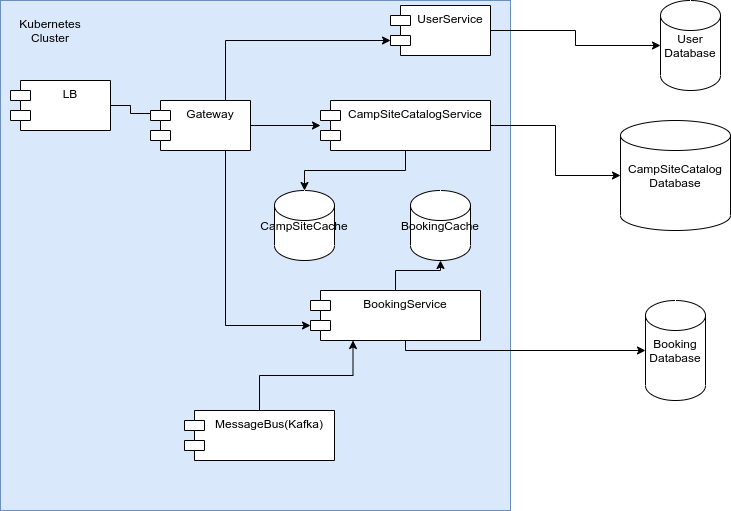
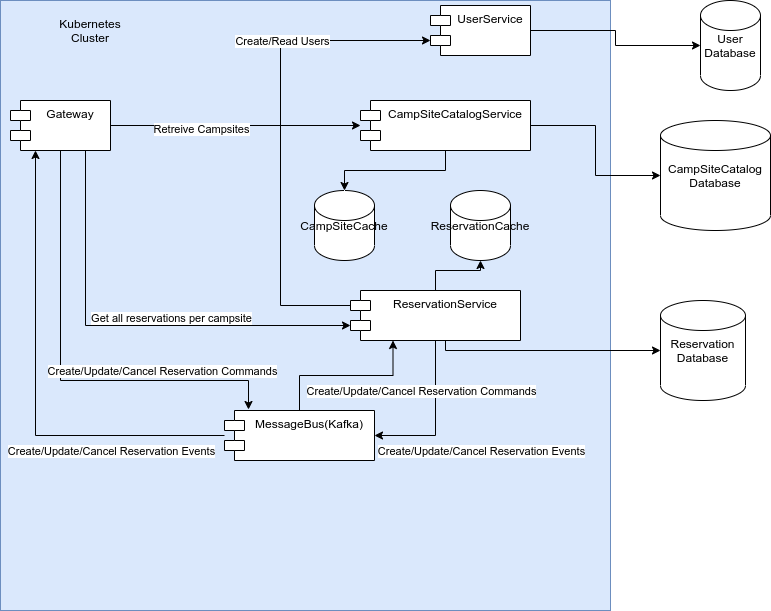
Documentation

diff --git a/README.md b/README.md
@@ -30,12 +30,131 @@ date(s). Demonstrate with appropriate test cases that the system can gracefully 
 7. There are no restrictions on how reservations are stored as as long as system constraints are not violated.
 
 # System Design
-
+This system has been designed choosing high availability (from CAP theorem) using eventual consistency 
+to scale all distributed operations but using some concepts to help consistency as well specially at the moment to
+create/update/cancel reservations.
+## Domain Drive Design
+### Bounded Contexts:
+* Reservation
+* User 
+* Campsite Catalog  
 ## Component Diagram
-
+The following system design has been build following the reactive architecture guidelines
+having the reactive manifesto in mind.    
 ![Component Diagram](NewIslandBooking.png)
 
+The system is designed to run using a container orchestration system such as kubernetes 
+(please see k8s yaml deployment and configurations) to allow a cloud agnostic solution, where all load balancing 
+and service discovery will be managed by kubernetes (in the case no kubernetes we can deploy it on compute instances 
+as well on any cloud or on-premise using Netflix Eureka) 
 
+The technology stack :
+* **Spring Boot**
+* **Spring Reactive WebFlux**
+* **Spring Data with JPA/Hibernate** 
+(I could use Spring Data R2DBC https://spring.io/projects/spring-data-r2dbc 
+ but there's only support for a few databases, I assume portability could be an issue, 
+ but we can easily adapt it due to the usage of WebFlux and code decoupling)
+* **Spring Cache** 
+(for simplicity of execution I use the default cache provider, 
+but we can set up a distributed cache such as Redis if is need it)
+* **Spring Reactive Sockets** 
+to provide asynchronous response
+* **Apache Kafka as Message Bus** 
+to increase responsiveness, elasticity, resilience and message driven  
+also allow to have complete decoupling between microservices and 
+listening to reservations event we can create data pipeline to an 
+OLAP type database (AWS Redshift of Google Big Query)for analytical usages 
+## Class Diagram / Database Design
+Having in mind separation in state from reactive systems 
+all three microservices do not share database therefore each microservice 
+has a separate database I have chosen postgres because 
+the schema is clearly defined but we don need ACID capabilities 
+(since it uses kafka topics partitioning to solve concurrency booking issues) 
+that's the reason Cassandra could be a great choice too
+![Component Diagram](NewIslandBookingClass.png)
+
+## System resource costs calculations
+Assuming :
+* we have 1 million users daily
+* we have 1 million campsites
+
+a single reservation having 
+* id 36 bytes
+* id userId 36 bytes
+* campsite 36 bytes 
+* status 9 bytes max
+* arrivalDate Timestamp - (8 bytes, little endian	5 bytes + fractional-seconds storage, big endian)
+* departureDate Timestamp - (8 bytes, little endian	5 bytes + fractional-seconds storage, big endian)
+* createdOn Timestamp - (8 bytes, little endian	5 bytes + fractional-seconds storage, big endian)
+* updatedOn Timestamp - (8 bytes, little endian	5 bytes + fractional-seconds storage, big endian)
+
+total = (36*3)+9+(8*4) = 149 bytes
+having 1 million users daily creating on average 1 reservation -> 149 bytes * 1M = 0.1388 GB daily = 50 GB yearly 
+we might need use database partitioning if we want keep the records. 
+Additionally I have designed an on memory cache that will improve this database performance. 
+
+a single user having 
+* id 36 bytes
+* name 100 bytes
+* email 100 bytes
+* createdOn Timestamp - (8 bytes, little endian	5 bytes + fractional-seconds storage, big endian)
+* updatedOn Timestamp - (8 bytes, little endian	5 bytes + fractional-seconds storage, big endian)
+
+total = 36+(100*2)+(8*2) = 252 bytes -> 252 bytes * 1M = 0.23 GB daily = 85.7 GB yearly
+definitely I would recommend having database partitioning for this database.
+
+a single campsite having 
+* id 36 bytes
+* name 100 bytes
+* latitude Double (64 bits) = 8 bytes   
+* longitude Double (64 bits) = 8 bytes
+* createdOn Timestamp - (8 bytes, little endian	5 bytes + fractional-seconds storage, big endian)
+* updatedOn Timestamp - (8 bytes, little endian	5 bytes + fractional-seconds storage, big endian)
+
+total = (8*4)+100+36 = 168 bytes -> 168 bytes * 1M = 0.156 GB 
+we can have this store on memory along with disk persisted database, 
+since this information does not change too often. 
+## Business logic review
+1. The campsite will be free for all.
+- Data retrieval is open through the gateway 
+
+2. The campsite can be reserved for max 3 days.
+- Implemented on 
+[reservation-service](reservation-service/src/main/java/com/newisland/reservation/service/ReservationServiceImpl.java)
+please also check test cases on [reservation-service tests](reservation-service/src/test/java/com/newisland/reservation/service/ReservationServiceTest.java)     
+
+3. The campsite can be reserved minimum 1 day(s) ahead of arrival and up to 1 month in advance.
+- Implemented on 
+[reservation-service](reservation-service/src/main/java/com/newisland/reservation/service/ReservationServiceImpl.java)
+please also check test cases on [reservation-service tests](reservation-service/src/test/java/com/newisland/reservation/service/ReservationServiceTest.java)     
+
+4. Reservations can be cancelled anytime.
+- Implemented on 
+[reservation-service](reservation-service/src/main/java/com/newisland/reservation/service/ReservationServiceImpl.java)
+please also check test cases on [reservation-service tests](reservation-service/src/test/java/com/newisland/reservation/service/ReservationServiceTest.java)     
+
+5. For sake of simplicity assume the check-in & check-out time is 12:00 AM
+
+## System Requirements
+
+1. The users will need to find out when the campsite is available. 
+
+the reservation service has implemented this query that 
+
+So the system should expose an API to provide information of the
+availability of the campsite for a given date range with the default being 1 month.
+2. Provide an end point for reserving the campsite. The user will provide his/her email & full name at the time of reserving the campsite
+along with intended arrival date and departure date. Return a unique booking identifier back to the caller if the reservation is successful.
+3. The unique booking identifier can be used to modify or cancel the reservation later on. Provide appropriate end point(s) to allow
+modification/cancellation of an existing reservation
+4. Due to the popularity of the island, there is a high likelihood of multiple users attempting to reserve the campsite for the same/overlapping
+date(s). Demonstrate with appropriate test cases that the system can gracefully handle concurrent requests to reserve the campsite.
+5. Provide appropriate error messages to the caller to indicate the error cases.
+6. In general, the system should be able to handle large volume of requests for getting the campsite availability.
+7. There are no restrictions on how reservations are stored as as long as system constraints are not violated.
+
+    
 ## Kafka Setup
 ### Localhost Standalone
 https://kafka.apache.org/quickstart
